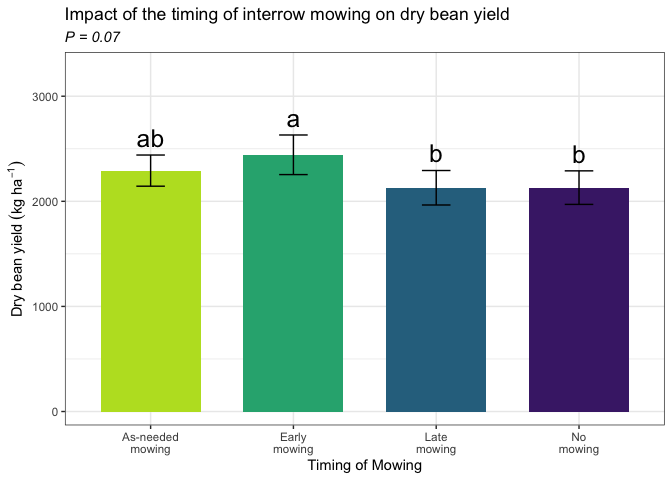
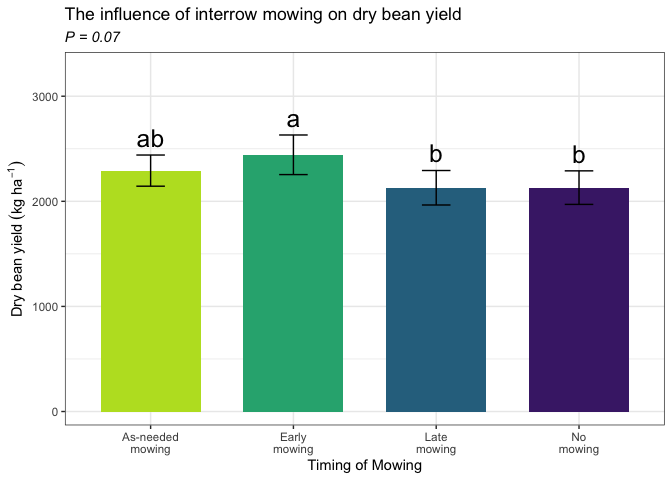
edited figures

Changed region(s): [[0.3125, 0.0, 0.75, 0.0625], [0.0938, 0.0, 0.2812, 0.0625]]

diff --git a/rmarkdowns/bean_yield_2023.md b/rmarkdowns/bean_yield_2023.md
@@ -48,58 +48,76 @@ return(d)}
 
 ``` r
 fh_raw_2023 <- read_excel("~/Github/IMT/raw-data/farmhub_raw_2023.xlsx")
-head(fh_raw_2023)
+kable(head(fh_raw_2023))
 ```
 
-    ## # A tibble: 6 × 13
-    ##   ID       LOC   TRT   BLOCK  PLOT MICROPLOT EMERG   BBM INTRAWBM INTERWBM   WBM
-    ##   <chr>    <chr> <chr> <dbl> <dbl> <chr>     <dbl> <dbl>    <dbl>    <dbl> <dbl>
-    ## 1 FH_B1_P… FH    EWC       1   101 M            21  87.2     0.75    16.5  17.2 
-    ## 2 FH_B1_P… FH    EWC       1   101 SW           24  40.3     3.54    37.6  41.2 
-    ## 3 FH_B1_P… FH    LWC       1   102 M            24  72.4     6.47    12.7  19.2 
-    ## 4 FH_B1_P… FH    LWC       1   102 SW           24  63.3     7.54    11.3  18.9 
-    ## 5 FH_B1_P… FH    AWC       1   103 M            23 149.      4.22     0     4.22
-    ## 6 FH_B1_P… FH    AWC       1   103 SW           26  84.3     2.9      8.13 11.0 
-    ## # ℹ 2 more variables: DEN <dbl>, BEANYD <dbl>
+| ID | LOC | TRT | BLOCK | PLOT | MICROPLOT | EMERG | BBM | INTRAWBM | INTERWBM | WBM | DEN | BEANYD |
+|:---|:---|:---|---:|---:|:---|---:|---:|---:|---:|---:|---:|---:|
+| FH_B1_P101 | FH | EWC | 1 | 101 | M | 21 | 87.18 | 0.75 | 16.50 | 17.25 | 44 | 367.79 |
+| FH_B1_P101_SW | FH | EWC | 1 | 101 | SW | 24 | 40.32 | 3.54 | 37.65 | 41.19 | 45 | 218.00 |
+| FH_B1_P102 | FH | LWC | 1 | 102 | M | 24 | 72.37 | 6.47 | 12.71 | 19.18 | 52 | 268.00 |
+| FH_B1_P102_SW | FH | LWC | 1 | 102 | SW | 24 | 63.33 | 7.54 | 11.33 | 18.87 | 49 | 177.30 |
+| FH_B1_P103 | FH | AWC | 1 | 103 | M | 23 | 148.62 | 4.22 | 0.00 | 4.22 | 43 | 290.00 |
+| FH_B1_P103_SW | FH | AWC | 1 | 103 | SW | 26 | 84.27 | 2.90 | 8.13 | 11.03 | 39 | 236.00 |
 
 ``` r
 cu_raw_2023 <- read_excel("~/Github/IMT/raw-data/cornell_raw_2023.xlsx")
-head(cu_raw_2023)
+kable(head(cu_raw_2023))
 ```
 
-    ## # A tibble: 6 × 13
-    ##   ID        LOC   TRT   BLOCK  PLOT MICROPLOT EMERG   BBM INTRABM INTERBM TOTWBM
-    ##   <chr>     <chr> <chr> <dbl> <dbl> <chr>     <dbl> <dbl>   <dbl>   <dbl>  <dbl>
-    ## 1 CU_B1_P1… CU    EWC       1   101 M            22  92.0    9.39   20.6    30.0
-    ## 2 CU_B1_P1… CU    EWC       1   101 SW           19  71.8   22.3    19.6    42.0
-    ## 3 CU_B1_P1… CU    LWC       1   102 M            22  83.8    7.23   14.8    22.0
-    ## 4 CU_B1_P1… CU    LWC       1   102 SW           26  81.2   13.1     9.65   22.7
-    ## 5 CU_B1_P1… CU    AWC       1   103 M            21 109.     6.67   11.3    18.0
-    ## 6 CU_B1_P1… CU    AWC       1   103 SW           28 152.    10.5     3.54   14.0
-    ## # ℹ 2 more variables: BEANDEN <dbl>, BEANYD <dbl>
+| ID | LOC | TRT | BLOCK | PLOT | MICROPLOT | EMERG | BBM | INTRABM | INTERBM | TOTWBM | BEANDEN | BEANYD |
+|:---|:---|:---|---:|---:|:---|---:|---:|---:|---:|---:|---:|---:|
+| CU_B1_P101 | CU | EWC | 1 | 101 | M | 22 | 91.99 | 9.39 | 20.64 | 30.03 | 19.0 | 222 |
+| CU_B1_P101_SW | CU | EWC | 1 | 101 | SW | 19 | 71.80 | 22.33 | 19.62 | 41.95 | 15.5 | 299 |
+| CU_B1_P102 | CU | LWC | 1 | 102 | M | 22 | 83.84 | 7.23 | 14.75 | 21.98 | 22.0 | 472 |
+| CU_B1_P102_SW | CU | LWC | 1 | 102 | SW | 26 | 81.23 | 13.07 | 9.65 | 22.72 | 16.5 | 307 |
+| CU_B1_P103 | CU | AWC | 1 | 103 | M | 21 | 109.21 | 6.67 | 11.28 | 17.95 | 24.5 | 456 |
+| CU_B1_P103_SW | CU | AWC | 1 | 103 | SW | 28 | 152.43 | 10.51 | 3.54 | 14.05 | 21.5 | 446 |
 
 ``` r
 me_raw_2023 <- read_excel("~/Github/IMT/raw-data/maine_raw_2023.xlsx", 
                           na = c("na")) # convert na to NA
-head(me_raw_2023)
+kable(head(me_raw_2023))
 ```
 
-    ## # A tibble: 6 × 13
-    ##   ID       LOC   TRT   BLOCK  PLOT MICROPLOT EMERG   BBM INTRAWBM INTERWBM   WBM
-    ##   <chr>    <chr> <chr> <dbl> <dbl> <chr>     <dbl> <dbl> <lgl>    <lgl>    <dbl>
-    ## 1 ME_B1_P… ME    NWC       1   101 M            16 141.  NA       NA        31.2
-    ## 2 ME_B1_P… ME    NWC       1   101 SW           NA 154.  NA       NA        67  
-    ## 3 ME_B1_P… ME    NWC       1   101 WF           NA 166.  NA       NA        47.6
-    ## 4 ME_B1_P… ME    EWC       1   102 M            16  87.2 NA       NA        70.7
-    ## 5 ME_B1_P… ME    EWC       1   102 SW           NA 145.  NA       NA        15.5
-    ## 6 ME_B1_P… ME    LWC       1   103 M            18 156.  NA       NA        22.2
-    ## # ℹ 2 more variables: DEN <dbl>, BEANYD <dbl>
+| ID | LOC | TRT | BLOCK | PLOT | MICROPLOT | EMERG | BBM | INTRAWBM | INTERWBM | WBM | DEN | BEANYD |
+|:---|:---|:---|---:|---:|:---|---:|---:|:---|:---|---:|---:|---:|
+| ME_B1_P101 | ME | NWC | 1 | 101 | M | 16 | 140.8 | NA | NA | 31.2 | 16 | 224 |
+| ME_B1_P101_SW | ME | NWC | 1 | 101 | SW | NA | 154.4 | NA | NA | 67.0 | 29 | 244 |
+| ME_B1_P101_WF | ME | NWC | 1 | 101 | WF | NA | 166.4 | NA | NA | 47.6 | 13 | 212 |
+| ME_B1_P102 | ME | EWC | 1 | 102 | M | 16 | 87.2 | NA | NA | 70.7 | 30 | 429 |
+| ME_B1_P102_SW | ME | EWC | 1 | 102 | SW | NA | 144.6 | NA | NA | 15.5 | 28 | 257 |
+| ME_B1_P103 | ME | LWC | 1 | 103 | M | 18 | 155.5 | NA | NA | 22.2 | 36 | 399 |
 
 ``` r
 vt_raw_2023 <- read_excel("~/Github/IMT/raw-data/vermont_raw_2023.xlsx")
-
-wi_raw_2023 <- read_excel("~/Github/IMT/raw-data/wisconsin_raw_2023.xlsx")
+kable(head(vt_raw_2023))
 ```
+
+| ID | LOC | TRT | BLOCK | PLOT | MICROPLOT | EMERG | BBM | INTRAWBM | INTERWBM | WBM | DEN | BEANYD |
+|:---|:---|:---|---:|---:|:---|---:|---:|---:|---:|---:|---:|---:|
+| VT_B1_P101 | VT | LWC | 1 | 101 | M | 31 | 192.1 | 0.0 | 0.1 | 0.1 | 42 | 353.808 |
+| VT_B1_P101_SW | VT | LWC | 1 | 101 | SW | 34 | 115.6 | 0.9 | 0.2 | 1.1 | 39 | 127.008 |
+| VT_B1_P102 | VT | NWC | 1 | 102 | M | 23 | 234.9 | 0.0 | 0.9 | 0.9 | 64 | 317.520 |
+| VT_B1_P102_SW | VT | NWC | 1 | 102 | SW | 30 | 177.3 | 0.0 | 21.5 | 21.5 | 65 | 285.768 |
+| VT_B1_P102_WF | VT | NWC | 1 | 102 | WF | 24 | 316.1 | 0.0 | 0.0 | 0.0 | 40 | 535.248 |
+| VT_B1_P103 | VT | EWC | 1 | 103 | M | 34 | 187.8 | 0.0 | 2.7 | 2.7 | 66 | 512.568 |
+
+``` r
+wi_raw_2023 <- read_excel("~/Github/IMT/raw-data/wisconsin_raw_2023.xlsx")
+kable(head(wi_raw_2023))
+```
+
+| ID | LOC | TRT | BLOCK | PLOT | MICROPLOT | EMERG | BBM | INTRAWBM | INTERWBM | WBM | DEN | BEANYD |
+|:---|:---|:---|---:|---:|:---|---:|---:|---:|---:|---:|---:|---:|
+| WI_B1_P101 | WI | NWC | 1 | 101 | M | 23 | 233.3 | 0.00 | 2.00 | 1.84 | 38 | 295.66 |
+| WI_B1_P101_SW | WI | NWC | 1 | 101 | SW | 24 | 61.7 | 31.66 | 155.90 | 187.56 | 28 | 88.81 |
+| WI_B1_P101_WF | WI | NWC | 1 | 101 | WF | 14 | 210.3 | 0.00 | 0.00 | 0.00 | 38 | 273.51 |
+| WI_B1_P102 | WI | LWC | 1 | 102 | M | 14 | 248.4 | 0.00 | 0.00 | 0.00 | 27 | 321.16 |
+| WI_B1_P102_SW | WI | LWC | 1 | 102 | SW | 16 | 65.6 | 28.76 | 50.00 | 78.76 | 32 | 97.45 |
+| WI_B1_P103 | WI | AWC | 1 | 103 | M | 17 | 279.3 | 0.00 | 0.21 | 0.21 | 34 | 302.72 |
+
+<br>
 
 ### **Combine all datasets and clean**
 
@@ -162,7 +180,7 @@ resid_panel(all_yield_random_2023)
 
 ![](bean_yield_2023_files/figure-gfm/unnamed-chunk-5-1.png)<!-- -->
 
-### *location fixed*
+### **location fixed**
 
 ``` r
 all_yield_fixed_2023 <- lmer(beanyd_adj_kg_ha ~ loc*mowing*weeds + (1|loc:block)+  (1|loc:block:mowing), data = all_yield_clean_2023)
@@ -175,7 +193,7 @@ resid_panel(all_yield_fixed_2023)
 
 The residuals apppear better with location as a fixed effect
 
-## **ANOVA table**
+# **ANOVA table**
 
 ``` r
  all_yield_fixed_2023 |> 
@@ -193,7 +211,7 @@ The residuals apppear better with location as a fixed effect
 | 6   | mowing:weeds     |   3 |  60 |   2.072 | 0.1134361 |
 | 3   | loc:mowing:weeds |  12 |  60 |   1.923 | 0.0492676 |
 
-## **Means comparison of yield**
+# **Means comparison of yield**
 
 ``` r
 all_yield_means_2023 <- 
@@ -349,7 +367,7 @@ cld_weeds_loc_tukey
     ##       But we also did not show them to be the same.
 
 ``` r
-#loc|weeds
+#loc|weeds|loc
 cld_mowing_weeds_loc_tukey <-cld(emmeans(all_yield_fixed_2023, ~  mowing|weeds|loc, type = "response"), Letters = letters, sort = FALSE, reversed = FALSE)
 cld_mowing_weeds_loc_tukey
 ```
@@ -431,6 +449,8 @@ cld_mowing_weeds_loc_tukey
     ## NOTE: If two or more means share the same grouping symbol,
     ##       then we cannot show them to be different.
     ##       But we also did not show them to be the same.
+
+<br>
 
 ### **Fisher’s method for comparing means**
 
@@ -521,79 +541,79 @@ cld_mowing_weeds_fisher
 
 ``` r
 #mowing|weeds|loc
-cld_mowing_weeds_loc_fisher <-cld(emmeans(all_yield_fixed_2023, ~  mowing|weeds|loc, type = "respons"), Letters = letters, sort = FALSE, adjust="none", reversed=FALSE)
+cld_mowing_weeds_loc_fisher <-cld(emmeans(all_yield_fixed_2023, ~  mowing|weeds|loc, type = "respons"), Letters = letters, sort = TRUE, adjust="none", reversed=TRUE)
 cld_mowing_weeds_loc_fisher
 ```
 
     ## weeds = M, loc = CU:
     ##  mowing emmean  SE df lower.CL upper.CL .group
+    ##  LWC      3296 311 90     2679     3913  a    
     ##  AWC      3075 311 90     2458     3692  ab   
-    ##  EWC      2402 311 90     1785     3019  a    
-    ##  LWC      3296 311 90     2679     3913   b   
-    ##  NWC      2491 311 90     1874     3109  a    
+    ##  NWC      2491 311 90     1874     3109   b   
+    ##  EWC      2402 311 90     1785     3019   b   
     ## 
     ## weeds = SW, loc = CU:
     ##  mowing emmean  SE df lower.CL upper.CL .group
     ##  AWC      2371 311 90     1754     2988  a    
-    ##  EWC      2165 311 90     1548     2783  a    
     ##  LWC      2356 311 90     1739     2973  a    
     ##  NWC      2211 311 90     1594     2828  a    
+    ##  EWC      2165 311 90     1548     2783  a    
     ## 
     ## weeds = M, loc = FH:
     ##  mowing emmean  SE df lower.CL upper.CL .group
-    ##  AWC      2608 311 90     1991     3226  a    
     ##  EWC      2830 311 90     2213     3447  a    
     ##  LWC      2784 311 90     2167     3401  a    
+    ##  AWC      2608 311 90     1991     3226  a    
     ##  NWC      2471 311 90     1854     3088  a    
     ## 
     ## weeds = SW, loc = FH:
     ##  mowing emmean  SE df lower.CL upper.CL .group
+    ##  NWC      2459 311 90     1842     3076  a    
+    ##  LWC      2441 311 90     1824     3058  a    
     ##  AWC      2430 311 90     1813     3047  a    
     ##  EWC      2321 311 90     1704     2938  a    
-    ##  LWC      2441 311 90     1824     3058  a    
-    ##  NWC      2459 311 90     1842     3076  a    
     ## 
     ## weeds = M, loc = ME:
     ##  mowing emmean  SE df lower.CL upper.CL .group
-    ##  AWC      2827 311 90     2210     3444  ab   
     ##  EWC      3294 311 90     2677     3911  a    
+    ##  AWC      2827 311 90     2210     3444  ab   
     ##  LWC      2406 311 90     1789     3023   b   
     ##  NWC      1451 311 90      834     2068    c  
     ## 
     ## weeds = SW, loc = ME:
     ##  mowing emmean  SE df lower.CL upper.CL .group
-    ##  AWC      1679 311 90     1062     2296  a    
     ##  EWC      2158 311 90     1541     2775  a    
     ##  LWC      2106 311 90     1489     2723  a    
     ##  NWC      1826 311 90     1209     2443  a    
+    ##  AWC      1679 311 90     1062     2296  a    
     ## 
     ## weeds = M, loc = VT:
     ##  mowing emmean  SE df lower.CL upper.CL .group
-    ##  AWC      3096 311 90     2478     3713  a    
-    ##  EWC      4090 311 90     3473     4707   b   
-    ##  LWC      2871 311 90     2254     3488  a    
+    ##  EWC      4090 311 90     3473     4707  a    
     ##  NWC      3467 311 90     2850     4084  ab   
+    ##  AWC      3096 311 90     2478     3713   b   
+    ##  LWC      2871 311 90     2254     3488   b   
     ## 
     ## weeds = SW, loc = VT:
     ##  mowing emmean  SE df lower.CL upper.CL .group
-    ##  AWC      2819 311 90     2202     3436  a    
-    ##  EWC      3675 311 90     3058     4292   b   
+    ##  EWC      3675 311 90     3058     4292  a    
+    ##  AWC      2819 311 90     2202     3436   b   
+    ##  NWC      2810 311 90     2193     3427   b   
     ##  LWC      1020 311 90      403     1637    c  
-    ##  NWC      2810 311 90     2193     3427  a    
     ## 
     ## weeds = M, loc = WI:
     ##  mowing emmean  SE df lower.CL upper.CL .group
+    ##  NWC      1740 311 90     1123     2357  a    
+    ##  LWC      1674 311 90     1057     2291  a    
     ##  AWC      1578 311 90      961     2195  a    
     ##  EWC      1163 311 90      546     1780  a    
-    ##  LWC      1674 311 90     1057     2291  a    
-    ##  NWC      1740 311 90     1123     2357  a    
     ## 
     ## weeds = SW, loc = WI:
     ##  mowing emmean  SE df lower.CL upper.CL .group
     ##  AWC       438 311 90     -179     1055  a    
-    ##  EWC       330 311 90     -287      947  a    
-    ##  LWC       337 311 90     -281      954  a    
     ##  NWC       375 311 90     -242      993  a    
+    ##  LWC       337 311 90     -281      954  a    
+    ##  EWC       330 311 90     -287      947  a    
     ## 
     ## Degrees-of-freedom method: kenward-roger 
     ## Confidence level used: 0.95 
@@ -601,6 +621,8 @@ cld_mowing_weeds_loc_fisher
     ## NOTE: If two or more means share the same grouping symbol,
     ##       then we cannot show them to be different.
     ##       But we also did not show them to be the same.
+
+<br>
 
 # **FIGURES**
 
@@ -616,7 +638,7 @@ all_yield_clean_2023 |>
   labs(
     x = "Timing of Mowing",
     y = expression("Dry bean yield" ~ (kg ~ ha^{-1})),
-    title = str_c("Impact of the timing of interrow mowing on dry bean yield"),
+    title = str_c("The influence of interrow mowing on dry bean yield"),
     subtitle = expression(italic("P = 0.07"))) +
   
   scale_x_discrete(labels = c("As-needed\nmowing", "Early\nmowing", "Late\nmowing", "No\nmowing")) +
@@ -636,7 +658,9 @@ all_yield_clean_2023 |>
 ggsave("yield_plot_mowing.png", width = 8, height = 6, dpi = 300)
 ```
 
-weeds
+<br>
+
+## **weeds**
 
 ``` r
 all_yield_clean_2023 |> 
@@ -648,9 +672,9 @@ all_yield_clean_2023 |>
   labs(
     x = "Weediness",
     y = expression("Dry bean yield" ~ (kg ~ ha^{-1})),
-    title = str_c("Impact of weediness on dry bean yield"),
+    title = str_c("The influence of weed level on dry bean yield"),
     subtitle = expression(italic("P < .005"))) +
-  scale_x_discrete(labels = c("Ambient weeds", "Ambient weeds + Surrogate weeds")) +
+  scale_x_discrete(labels = c("Ambient weeds", "Ambient + Surrogate weeds")) +
   scale_y_continuous(expand = expansion(mult = c(0.05, 0.3))) +
   scale_fill_viridis(discrete = TRUE, option = "D", direction = -1, end = 0.9, begin = 0.1) +
    theme_bw() +
@@ -667,7 +691,9 @@ all_yield_clean_2023 |>
 ggsave("yield_plot_weeds.png", width = 8, height = 6, dpi = 300)
 ```
 
-mowing \| weeds
+<br>
+
+## **mowing\|weeds**
 
 ``` r
 all_yield_clean_2023 |> 
@@ -680,7 +706,7 @@ all_yield_clean_2023 |>
   labs(
     x = "Timing of mowing",
     y = expression("Dry bean yield" ~ (kg ~ ha^{-1})),
-    title = str_c("Impact of interrow mowing and weediness on dry bean yield"),
+    title = str_c("The influence of interrow mowing on dry bean yield across weed levels"),
     subtitle = expression(italic("P =0.11"))) +
   scale_x_discrete(labels = c("As-needed\nmowing", "Early\nmowing", "Late\nmowing", "No\nmowing")) +
   scale_y_continuous(expand = expansion(mult = c(0.05, 0.3))) +
@@ -699,13 +725,17 @@ all_yield_clean_2023 |>
 ggsave("yield_plot_mowing_weeds.png", width = 8, height = 6, dpi = 300)
 ```
 
+<br>
+
+## **mowing\|weeds\|loc**
+
 ``` r
 all_yield_clean_2023 |> 
   left_join(cld_mowing_weeds_loc_fisher) |> 
   ggplot(aes(x = mowing, y = beanyd_adj_kg_ha, fill = mowing)) +
   facet_grid(weeds ~ loc, labeller = labeller(
     loc = c("CU" = "Aurora, NY", "FH" = "Hurley, NY", "ME" = "Orono, ME", "VT" = "Alburgh, VT", "WI" = "Arlington, WI"),
-    weeds = c("M" = "Ambient Weeds", "SW" = "Ambient Weeds + Surrogate Weeds")
+    weeds = c("M" = "Ambient Weeds", "SW" = "Ambient + Surrogate Weeds")
   )) +
   stat_summary(geom = "bar", fun = "mean", width = 0.7) +
   stat_summary(geom = "errorbar", fun.data = "mean_se", width = 0.2) +
@@ -713,7 +743,7 @@ all_yield_clean_2023 |>
   labs(
     x = "Timing of mowing",
     y = expression("Dry bean yield" ~ (kg ~ ha^{-1})),
-    title = str_c("Impact of interrow mowing on dry bean yield by location and weediness"),
+    title = str_c("The influence of mowing on dry bean yield across locations and weed levels"),
     subtitle = expression(italic("P = 0.049"))) +
   scale_x_discrete(labels = c("As-needed\nmowing", "Early\nmowing", "Late\nmowing", "No\nmowing")) +
   scale_y_continuous(expand = expansion(mult = c(0.05, 0.3))) +
@@ -729,7 +759,7 @@ all_yield_clean_2023 |>
 ![](bean_yield_2023_files/figure-gfm/unnamed-chunk-14-1.png)<!-- -->
 
 ``` r
-ggsave("yield_plot_mowing_weeds_loc.png", width = 11, height = 6, dpi = 300)
+ggsave("yield_plot_mowing_weeds_loc.png", width = 30, height = 15, dpi = 300)
 ```
 
 \`\`\`
